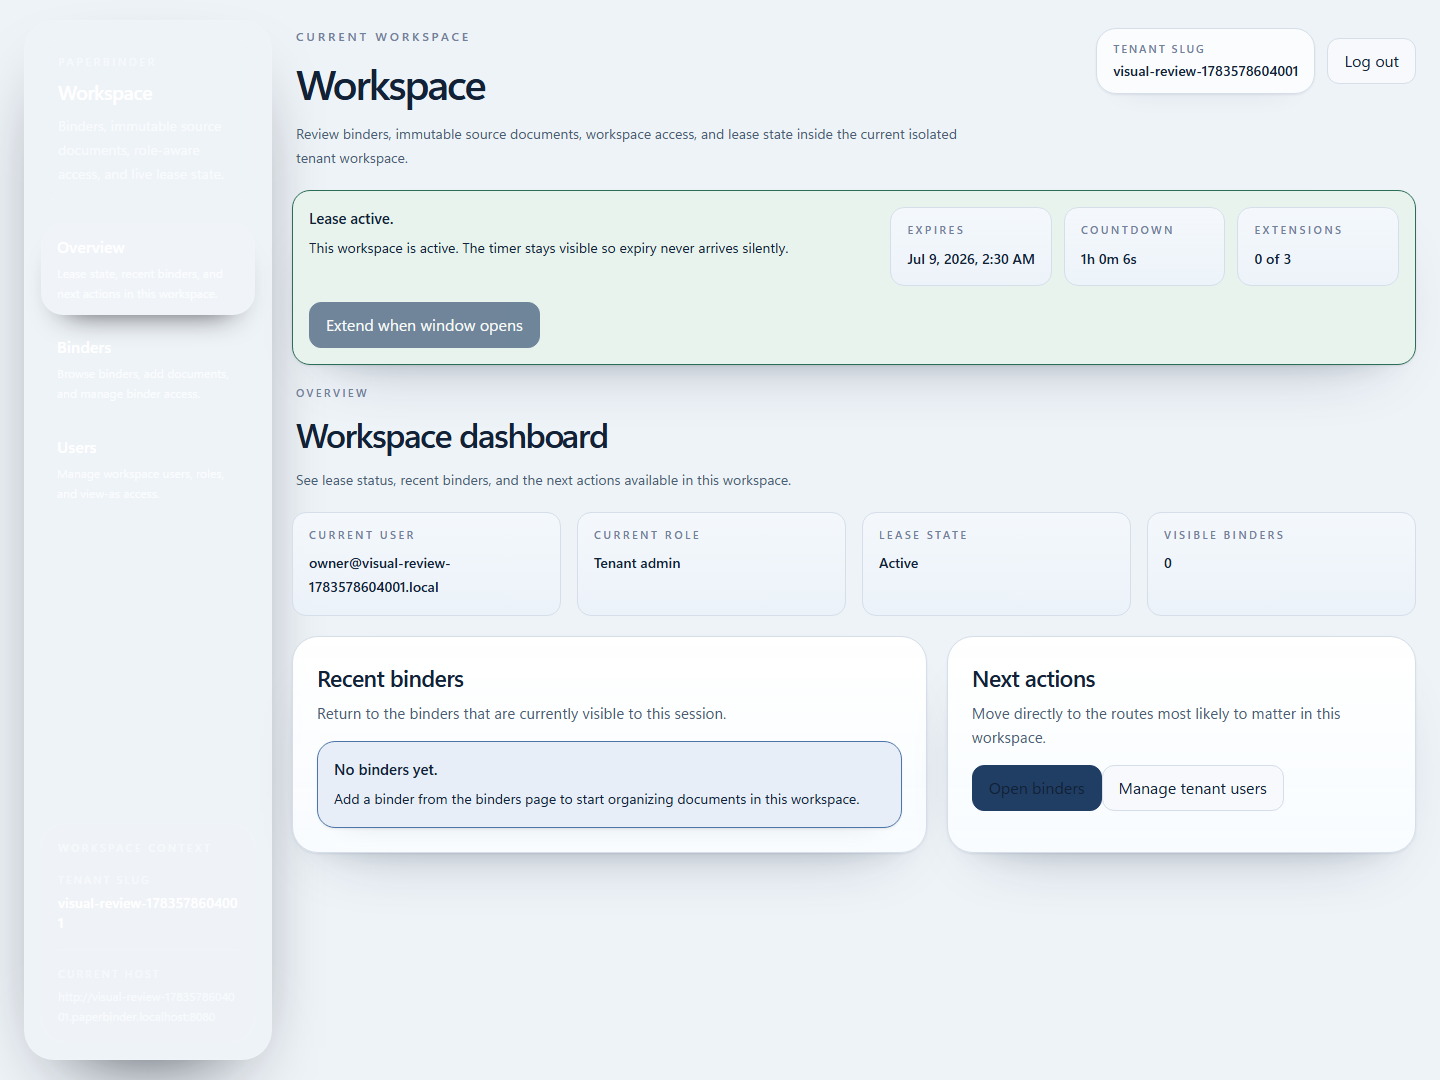
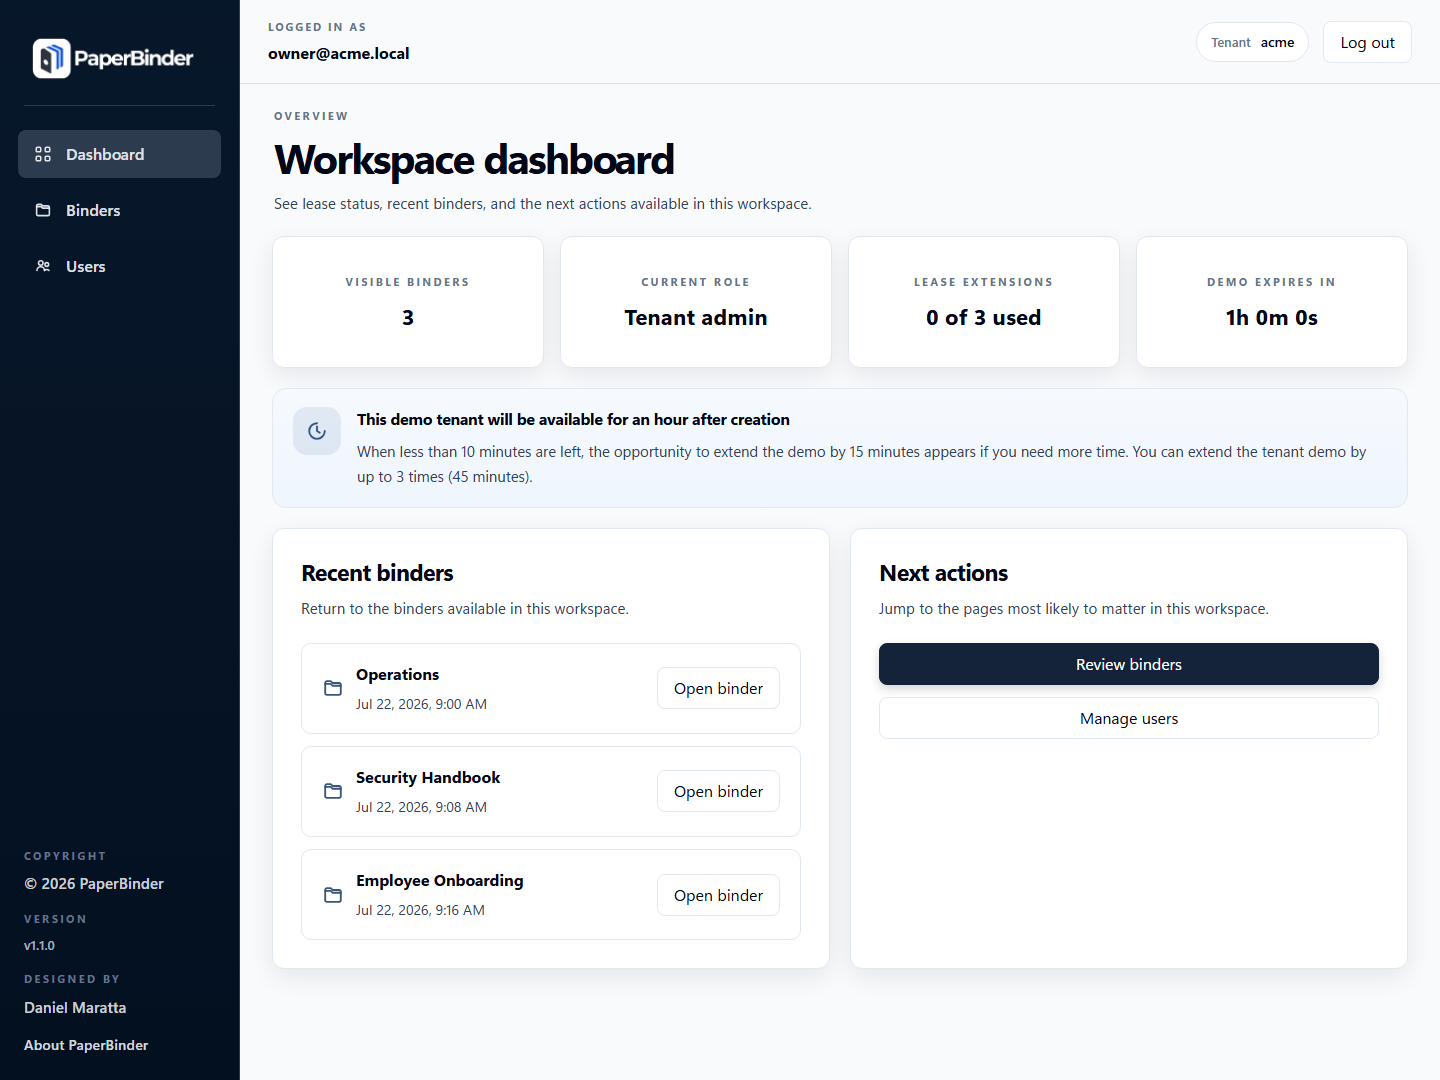
fix(public-site): refresh landing product proof screenshots

diff --git a/src/PaperBinder.Web/src/app/root-host.tsx b/src/PaperBinder.Web/src/app/root-host.tsx
@@ -646,9 +646,9 @@ function RootLandingPage({ hostContext }: { hostContext: RootHostContext }) {
               <div aria-hidden="true" className="pb-public-phone-preview__speaker" />
               <div className="pb-public-phone-preview__screen">
                 <img
-                  alt="PaperBinder start-demo screen with generated credentials for a new workspace."
+                  alt="PaperBinder binders page in a mobile workspace view."
                   className="pb-public-proof-image pb-public-proof-image--phone"
-                  src="/presentation/start-demo-proof.png"
+                  src="/presentation/binders-proof.png"
                 />
               </div>
             </div>

diff --git a/src/PaperBinder.Web/src/app/root-host.test.tsx b/src/PaperBinder.Web/src/app/root-host.test.tsx
@@ -143,9 +143,9 @@ describe("root-host flows", () => {
     ).toHaveAttribute("src", "/presentation/dashboard-proof.png");
     expect(
       screen.getByRole("img", {
-        name: "PaperBinder start-demo screen with generated credentials for a new workspace."
+        name: "PaperBinder binders page in a mobile workspace view."
       })
-    ).toHaveAttribute("src", "/presentation/start-demo-proof.png");
+    ).toHaveAttribute("src", "/presentation/binders-proof.png");
     expect(
       screen.getByRole("img", {
         name: "PaperBinder users page with current users, role changes, and view as actions."

diff --git a/src/PaperBinder.Web/src/styles.css b/src/PaperBinder.Web/src/styles.css
@@ -697,6 +697,7 @@ a {
 
 .pb-public-phone-preview__screen {
   overflow: hidden;
+  height: 420px;
   border-radius: var(--pb-radius-xl);
   background: var(--pb-bg-page);
 }
@@ -722,7 +723,8 @@ a {
 }
 
 .pb-public-proof-image--phone {
-  min-height: 420px;
+  height: 100%;
+  min-height: 0;
   object-position: top center;
 }
 
@@ -3087,7 +3089,7 @@ a {
   }
 
   .pb-public-proof-image--phone {
-    min-height: auto;
+    min-height: 0;
   }
 
   .pb-public-feature-strip {
